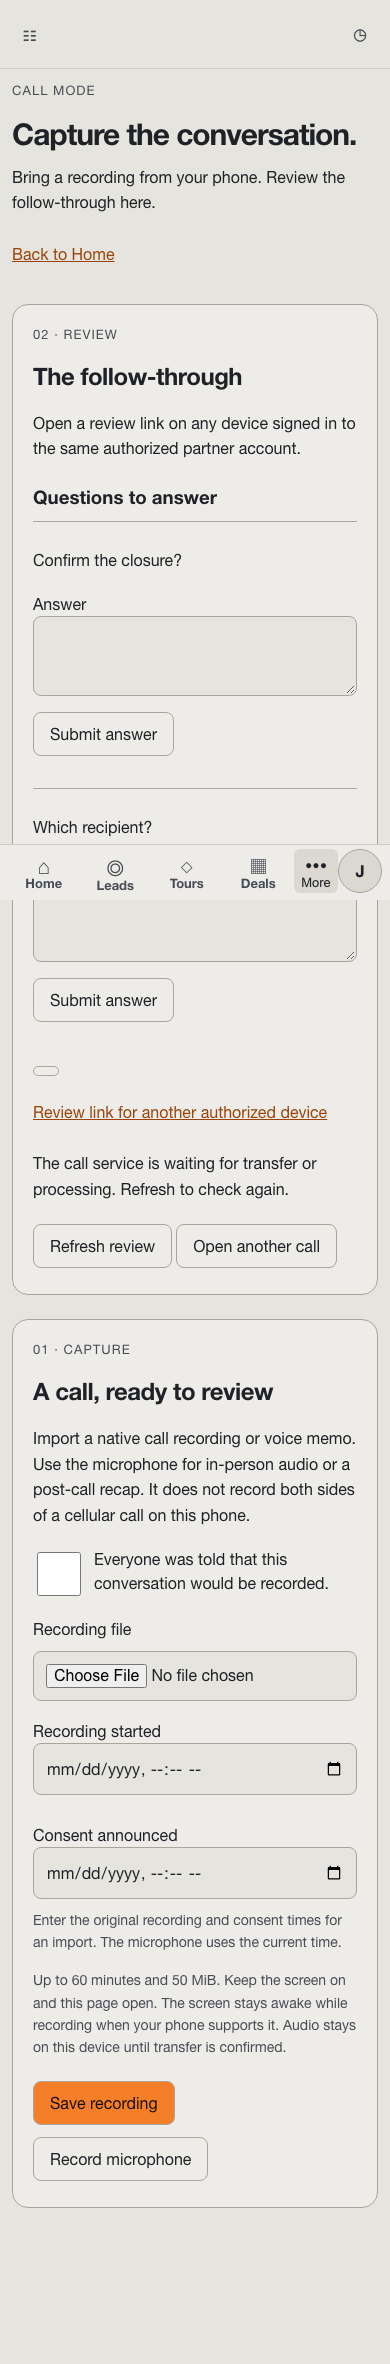
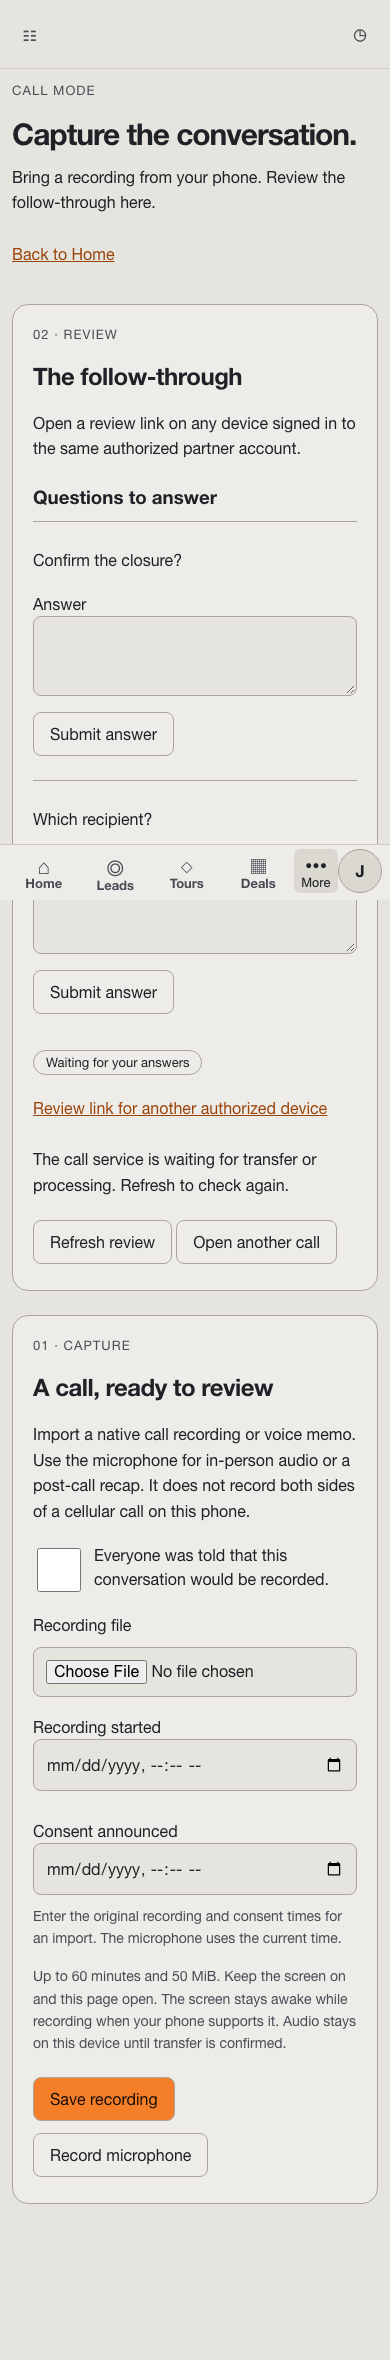
Label held call statuses
The status label map omitted held review and needs attention states. Show clear labels and keep unknown states readable.

diff --git a/js/phone-calls.js b/js/phone-calls.js
@@ -12,6 +12,7 @@ const api = createPhoneCallClient();
 let store, recorder, scope, client, disposed = false, busy = false, currentId = null;
 const answers = new Map(), answering = new Set();
 const tour_id = 'calls';
+let reviewGeneration = 0;
 let wakeLock = null, wakeGeneration = 0, transferringId = null, pollTimer = null, pollDelay = 30000, pollAttempts = 0;
 async function acquireWakeLock() {
   const generation = ++wakeGeneration;
@@ -46,7 +47,7 @@ function stopMessage(row) {
   return '';
 }
 const mimeTypes = new Set(['audio/wav', 'audio/x-wav', 'audio/mp4', 'audio/m4a', 'audio/x-m4a', 'audio/mpeg', 'audio/webm']);
-const labels = { pending: 'Pending transfer', queued: 'Uploaded — waiting for the Studio', expired: 'Transfer again', transferred: 'Processing', ready_review: 'Ready for review', filed: 'Filed' };
+const labels = { pending: 'Pending transfer', queued: 'Uploaded — waiting for the Studio', expired: 'Transfer again', transferred: 'Processing', ready_review: 'Ready for review', filed: 'Filed', held_review: 'Waiting for your answers', needs_attention: 'Needs attention' };
 async function duration(audio) {
   const url = URL.createObjectURL(audio);
   try {
@@ -126,22 +127,23 @@ async function transfer(id) {
 function reviewId(value) { try { return new URL(value).searchParams.get('session'); } catch { return value; } }
 async function review(id) {
   if (!sessionId(id)) throw new Error('Enter a valid call session ID.');
+  const generation = ++reviewGeneration;
   const [result, session] = await Promise.all([api.report(id), api.status(id)]);
-  if (disposed) return;
+  if (disposed || generation !== reviewGeneration) return;
   currentId = id;
   $('phoneCalls').classList.add('has-review');
   const url = new URL(location.href); url.searchParams.set('session', id); history.replaceState(null, '', url);
   $('phoneSession').value = id;
   $('phoneOpen').hidden = true;
   const held = [...(result.actions || []), ...(result.deal_updates || [])].some(r => r.status === 'pending');
-  $('phoneReview').innerHTML = `<span class="phone-badge">${esc(labels[result.state])}</span><p><a href="${esc(url.pathname + url.search)}">Review link for another authorized device</a></p>${result.report ? `<h3>Summary</h3><p>${esc(result.report.summary)}</p>${result.report.decisions.length ? `<h3>Decisions</h3><ul>${result.report.decisions.map(s => `<li>${esc(s)}</li>`).join('')}</ul>` : ''}${held ? '<p class="phone-hold">Partner confirmation needed. Speaker attribution may be ambiguous in a single track. Pending items have not been applied. Confirm only after checking who said what.</p>' : ''}<h3>Assigned actions</h3>${(result.actions || []).map(r => `<div class="phone-row"><strong>${esc(r.action)}</strong><p>${esc(({ joe: 'Joe', dell: 'Dell' })[r.assignee] || r.assignee)} · ${esc(r.due_on || 'No due date')} · ${esc(r.status === 'pending' ? 'Needs your confirmation' : r.status)}</p>${r.status === 'pending' ? `<button data-confirm-action="${esc(r.id)}">Confirm assigned action</button>` : ''}</div>`).join('') || '<p>No assigned actions.</p>'}<h3>Deal changes</h3>${(result.deal_updates || []).map(r => `<div class="phone-row"><p>${esc(r.payload?.text || r.payload?.summary || r.payload?.value || r.kind)}</p><p class="phone-meta">${esc(r.status)}${r.status === 'confirmed' ? ' · Confirmed changes are revised on the deal. Call Undo covers automatic changes only.' : ''}</p>${r.status === 'pending' ? `<button data-confirm-change="${esc(r.id)}">Confirm deal change</button>` : ''}</div>`).join('') || '<p>No deal changes.</p>'}<h3>Open questions</h3><ul>${result.report.open_questions.map(s => `<li>${esc(s)}</li>`).join('')}</ul><div id="phoneOutcomes"></div>` : '<p>The call service is waiting for transfer or processing. Refresh to check again.</p>'}<button id="phoneRefresh">Refresh review</button><button id="phoneAnother">Open another call</button>`;
+  $('phoneReview').innerHTML = `<span class="phone-badge">${esc(Object.hasOwn(labels, result.state) ? labels[result.state] : 'Status unavailable')}</span><p><a href="${esc(url.pathname + url.search)}">Review link for another authorized device</a></p>${result.report ? `<h3>Summary</h3><p>${esc(result.report.summary)}</p>${result.report.decisions.length ? `<h3>Decisions</h3><ul>${result.report.decisions.map(s => `<li>${esc(s)}</li>`).join('')}</ul>` : ''}${held ? '<p class="phone-hold">Partner confirmation needed. Speaker attribution may be ambiguous in a single track. Pending items have not been applied. Confirm only after checking who said what.</p>' : ''}<h3>Assigned actions</h3>${(result.actions || []).map(r => `<div class="phone-row"><strong>${esc(r.action)}</strong><p>${esc(({ joe: 'Joe', dell: 'Dell' })[r.assignee] || r.assignee)} · ${esc(r.due_on || 'No due date')} · ${esc(r.status === 'pending' ? 'Needs your confirmation' : r.status)}</p>${r.status === 'pending' ? `<button data-confirm-action="${esc(r.id)}">Confirm assigned action</button>` : ''}</div>`).join('') || '<p>No assigned actions.</p>'}<h3>Deal changes</h3>${(result.deal_updates || []).map(r => `<div class="phone-row"><p>${esc(r.payload?.text || r.payload?.summary || r.payload?.value || r.kind)}</p><p class="phone-meta">${esc(r.status)}${r.status === 'confirmed' ? ' · Confirmed changes are revised on the deal. Call Undo covers automatic changes only.' : ''}</p>${r.status === 'pending' ? `<button data-confirm-change="${esc(r.id)}">Confirm deal change</button>` : ''}</div>`).join('') || '<p>No deal changes.</p>'}<h3>Open questions</h3><ul>${result.report.open_questions.map(s => `<li>${esc(s)}</li>`).join('')}</ul><div id="phoneOutcomes"></div>` : '<p>The call service is waiting for transfer or processing. Refresh to check again.</p>'}<button id="phoneRefresh">Refresh review</button><button id="phoneAnother">Open another call</button>`;
   const questions = Array.isArray(session.review_questions) ? session.review_questions : [];
   $('phoneReview').insertAdjacentHTML('afterbegin', questions.length ? `<section id="phoneQuestions"><h3>Questions to answer</h3>${questions.map(q => `<form class="phone-row" data-question="${esc(q.id)}"><p>${esc(q.question)}</p><label>Answer <textarea name="answer" maxlength="1000" required ${answering.has(id + ':' + q.id) ? 'disabled' : ''} ${answers.has(id + ':' + q.id) ? 'readonly' : ''}>${esc(answers.get(id + ':' + q.id)?.answer || '')}</textarea></label><button type="submit" ${answering.has(id + ':' + q.id) ? 'disabled' : ''}>Submit answer</button><p role="status"></p></form>`).join('')}</section>` : '');
   if (result.report) {
     try {
       const answer = await client.readCallOutcomes();
-      if (!disposed && currentId === id) $('phoneOutcomes').innerHTML = callOutcomesHtml((answer.calls || []).filter(c => c.session_id === id)) || '<p class="phone-meta">No unreviewed automatic changes were returned. Confirmed changes remain listed above.</p>';
-    } catch { if (!disposed) notice('Applied changes could not be checked. Refresh review to retry.'); }
+      if (!disposed && generation === reviewGeneration && currentId === id) $('phoneOutcomes').innerHTML = callOutcomesHtml((answer.calls || []).filter(c => c.session_id === id)) || '<p class="phone-meta">No unreviewed automatic changes were returned. Confirmed changes remain listed above.</p>';
+    } catch { if (!disposed && generation === reviewGeneration) notice('Applied changes could not be checked. Refresh review to retry.'); }
   }
 }
 async function run(action) {
@@ -191,12 +193,12 @@ async function start() {
     form.querySelectorAll('button, textarea').forEach(control => control.disabled = true);
     void (async () => {
       let message = '';
-      try { await api.answer(id, payload); } catch (error) { message = error.message; }
+      try { await api.answer(id, payload); } catch (error) { message = error.message; if (['invalid_question_answer', 'key_reuse'].includes(error.code)) answers.delete(slot); }
       try { if (!disposed && currentId === id) await review(id); } catch { message ||= 'Call review could not be refreshed. Please retry.'; }
       answering.delete(slot);
       if (disposed || currentId !== id) return;
       const current = [...$('phoneReview').querySelectorAll('[data-question]')].find(row => row.dataset.question === question_id);
-      if (current) { current.querySelector('[role=status]').textContent = message; current.querySelector('button').disabled = false; current.querySelector('textarea').disabled = false; current.querySelector('textarea').readOnly = true; }
+      if (current) { current.querySelector('[role=status]').textContent = message; current.querySelector('button').disabled = false; current.querySelector('textarea').disabled = false; current.querySelector('textarea').readOnly = answers.has(slot); if (!answers.has(slot)) current.querySelector('textarea').value = answer; }
       else if (message) notice(message);
     })();
   });

diff --git a/js/phone-call-client.js b/js/phone-call-client.js
@@ -3,7 +3,7 @@ const PREFIX = '/api/v1/call-sessions';
 export const sessionId = value => /^[0-9a-f]{8}(?:-[0-9a-f]{4}){3}-[0-9a-f]{12}$/.test(value || '');
 function verifiedSession(value, id) {
   if (value?.schema_version !== 1 || !sessionId(value.session_id) || (id && value.session_id !== id) ||
-      !['pending', 'queued', 'expired', 'transferred', 'ready_review', 'filed', 'held_review', 'needs_attention'].includes(value.state) ||
+      typeof value.state !== 'string' || !value.state ||
       typeof value.transferred !== 'boolean' || typeof value.filed !== 'boolean')
     throw new Error('Call status could not be verified. Saved audio has been kept.');
   return value;
@@ -23,7 +23,7 @@ export function createPhoneCallClient() {
       };
       if (path.endsWith('/answers')) {
         const answerMessages = { question_already_resolved: 'This question has already been answered.', question_not_found: 'This question is no longer available.', not_found: 'This call is unavailable or belongs to another partner.', invalid_question_answer: 'This answer is invalid. Check it and try again.', key_reuse: 'This answer could not be accepted. Refresh the call and try again.' };
-        throw new Error(answerMessages[error] || 'The answer could not be sent. Please retry.');
+        throw Object.assign(new Error(answerMessages[error] || 'The answer could not be sent. Please retry.'), { code: error });
       }
       throw new Error(messages[error] || (response.status === 400 ? 'This recording could not be accepted. Check its length and file before trying again.' : response.status === 413 ? 'This recording is too large. Choose a file up to 50 MiB.' : response.status === 415 ? 'This audio format is not supported. Try an MP4, WAV, MP3 or WebM recording.' : response.status === 409 ? 'An upload is already in progress or this recording does not match. Your audio stays on this device.' : response.status === 429 ? 'The upload queue is full or too many uploads were attempted. Try again later.' : 'Call service unavailable. Your saved audio stays on this device.'));
     }

diff --git a/css/phone-calls.css b/css/phone-calls.css
@@ -48,3 +48,5 @@ body { margin: 0; background: var(--ground); font-family: var(--font-text); }
 .phone-times label { min-width: 0; }
 
 #phoneQuestions textarea { display: block; min-height: 80px; resize: vertical; }
+
+#phoneQuestions [role="status"]:empty { display: none; }
